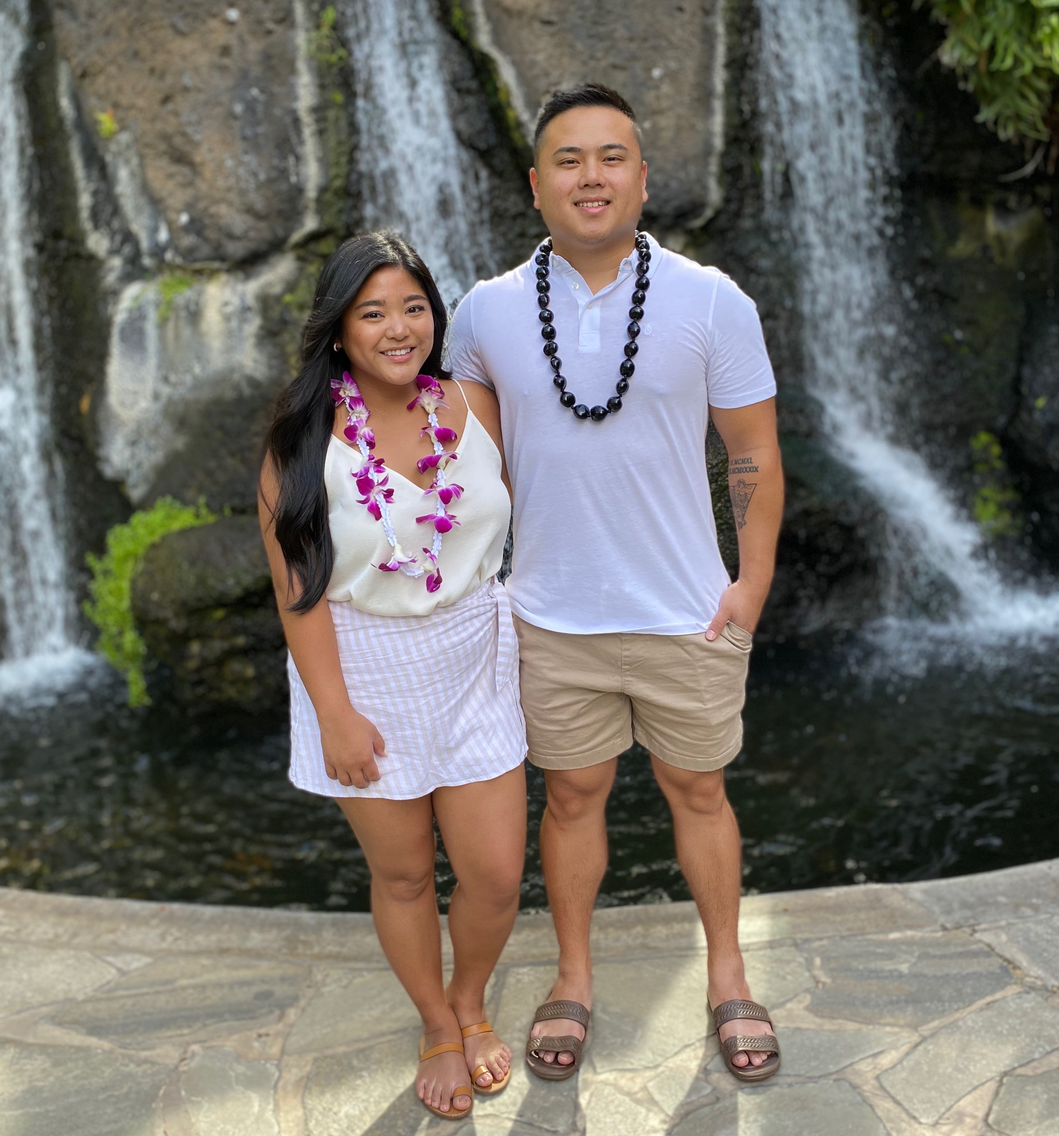
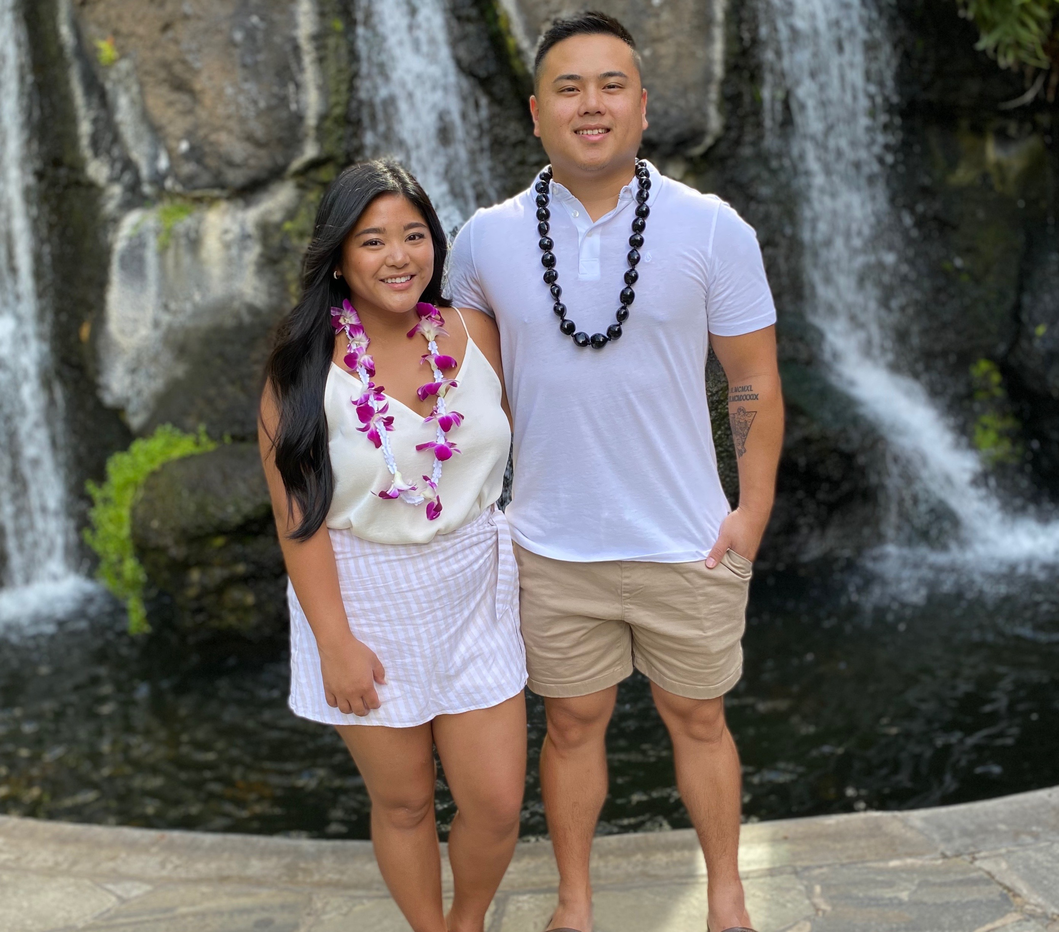
updated bg2 photo and css to index.html

diff --git a/assets/css/style.css b/assets/css/style.css
@@ -21,7 +21,7 @@ body {
     font-size: 1.5em;
 }
 
-/*-------rsvp.html main-------*/
+/*-------index.html main-------*/
 
 .story-section {
     background: url("../images/bg1.JPG") center center no-repeat;
@@ -36,7 +36,7 @@ body {
 }
 
 .story-section-2 {
-    background: url("../images/bg2.JPG") top center no-repeat;
+    background: url("../images/bg2.jpeg") top center no-repeat;
     background-size: cover;
     width: 100%;
     overflow: hidden;

diff --git a/README.md b/README.md
@@ -60,6 +60,8 @@ Social links - All links will open a new tab and all have been manually tested t
 
 The site was tested across multiple browsers (Google Chrome, Safari, Firefox, Internet Explorer). The site was tested across multiple mobile and tablet devices.
 
+The criteria checklist was used to help develop the website. I had 3 of my friends test the website for functionality and to get their feedback.
+
 ## Deployment
 
 This site is hosted using Github pages, deployed directly from the master branch. The deployed site will update with new commits to the master branch.
